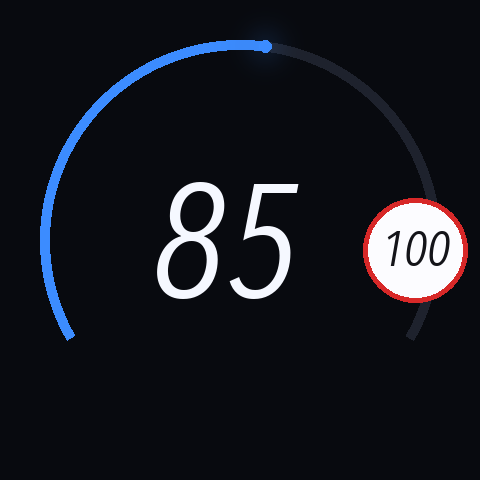
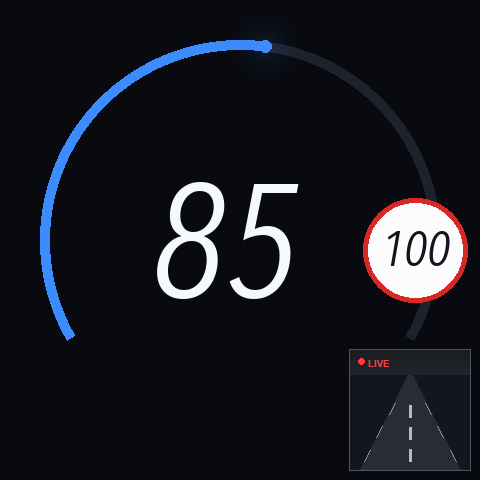
chore: update HUD mockups with PiP camera preview
Regenerate all 4 mockup images to include the PiP camera preview
in the bottom-right corner. Alert bar and separator shortened to
avoid overlapping the PiP area.

Changed region(s): [[0.7188, 0.75, 1.0, 1.0]]

diff --git a/src/generate_hud_mockups_v3.py b/src/generate_hud_mockups_v3.py
@@ -107,6 +107,84 @@ def draw_limit_sign(draw, cx, cy, r, text):
     center_text(draw, cx, cy - 2, text, fnt, (20, 20, 25))
 
 
+PIP_SIZE = 120
+PIP_MARGIN = 10
+PIP_X = W - PIP_MARGIN - PIP_SIZE   # 350
+PIP_Y = H - PIP_MARGIN - PIP_SIZE   # 350
+PIP_BORDER_COL = (80, 85, 100)
+
+
+def draw_pip_preview(img, draw):
+    """Draw a stylized camera preview placeholder in the PiP area.
+
+    Shows a simple road perspective with lane lines to clearly
+    communicate 'live camera feed' in the mockup.
+    """
+    px, py = PIP_X, PIP_Y
+    ps = PIP_SIZE
+
+    # Dark background (slightly lighter than HUD bg for contrast)
+    draw.rectangle([px, py, px + ps - 1, py + ps - 1], fill=(18, 22, 30))
+
+    # Simple road perspective: vanishing point at top-center of PiP
+    vx = px + ps // 2       # vanishing point x
+    vy = py + 25             # vanishing point y (near top)
+    bottom = py + ps - 1
+
+    # Road surface (dark gray trapezoid)
+    road_l = px + 10
+    road_r = px + ps - 10
+    draw.polygon([(vx - 2, vy), (vx + 2, vy),
+                  (road_r, bottom), (road_l, bottom)],
+                 fill=(40, 44, 52))
+
+    # Center dashed line
+    for i in range(4):
+        y1 = vy + 30 + i * 22
+        y2 = y1 + 12
+        if y2 > bottom:
+            break
+        # Line gets wider toward bottom (perspective)
+        frac = (y1 - vy) / (bottom - vy)
+        hw = max(1, int(frac * 2))
+        draw.rectangle([vx - hw, y1, vx + hw, y2], fill=(180, 185, 195))
+
+    # Left lane line
+    for i in range(3):
+        frac1 = 0.3 + i * 0.25
+        frac2 = frac1 + 0.12
+        y1 = int(vy + frac1 * (bottom - vy))
+        y2 = int(vy + frac2 * (bottom - vy))
+        x1 = int(vx - frac1 * (vx - road_l))
+        x2 = int(vx - frac2 * (vx - road_l))
+        draw.line([(x1, y1), (x2, y2)], fill=(140, 145, 155), width=1)
+
+    # Right lane line
+    for i in range(3):
+        frac1 = 0.3 + i * 0.25
+        frac2 = frac1 + 0.12
+        y1 = int(vy + frac1 * (bottom - vy))
+        y2 = int(vy + frac2 * (bottom - vy))
+        x1 = int(vx + frac1 * (road_r - vx))
+        x2 = int(vx + frac2 * (road_r - vx))
+        draw.line([(x1, y1), (x2, y2)], fill=(140, 145, 155), width=1)
+
+    # Sky gradient (top portion)
+    for y in range(py, vy):
+        frac = (y - py) / max(1, vy - py)
+        c = int(25 + frac * 10)
+        draw.line([(px, y), (px + ps - 1, y)], fill=(c, c + 3, c + 8))
+
+    # "LIVE" indicator dot (top-left of PiP)
+    dot_x, dot_y = px + 8, py + 8
+    draw.ellipse([dot_x, dot_y, dot_x + 6, dot_y + 6], fill=(255, 60, 60))
+    fnt_live = fr(10, bold=True)
+    draw.text((dot_x + 10, dot_y - 1), "LIVE", fill=(255, 60, 60), font=fnt_live)
+
+    # Border (1px subtle gray frame)
+    draw.rectangle([px - 1, py - 1, px + ps, py + ps], outline=PIP_BORDER_COL, width=1)
+
+
 def generate(filename, speed, limit, is_speeding=False, show_camera=False,
              camera_and_speeding=False):
     img = Image.new("RGB", (W, H), BG)
@@ -168,10 +246,12 @@ def generate(filename, speed, limit, is_speeding=False, show_camera=False,
         fnt_cam = fr(18, bold=True)
         draw.text((bx + 44, by + 10), "CAMERA", fill=cam_color, font=fnt_cam)
 
-    # -- Alert bar (bottom, only when needed) --
+    # -- Alert bar (bottom, shortened to avoid PiP overlap) --
     if is_speeding or show_camera:
         bar_h = 56
         bar_y = H - bar_h - 40
+        bar_x1 = 24
+        bar_x2 = PIP_X - 10  # stop before PiP area
 
         if camera_and_speeding:
             alert_color = RED
@@ -184,19 +264,23 @@ def generate(filename, speed, limit, is_speeding=False, show_camera=False,
             alert_text = "CAMERA AHEAD"
 
         # Glow
-        add_rect_glow(img, 20, bar_y, W - 20, bar_y + bar_h, alert_color, blur=25, strength=0.2)
+        add_rect_glow(img, bar_x1, bar_y, bar_x2, bar_y + bar_h, alert_color, blur=25, strength=0.2)
         draw = ImageDraw.Draw(img)
 
         # Bar background
         draw.rounded_rectangle(
-            [24, bar_y, W - 24, bar_y + bar_h], radius=14,
+            [bar_x1, bar_y, bar_x2, bar_y + bar_h], radius=14,
             fill=(alert_color[0] // 6, alert_color[1] // 6, alert_color[2] // 6),
             outline=alert_color, width=2,
         )
 
-        # Alert text - BIG enough to read
+        # Alert text centered in shortened bar
         fnt_alert = f(28, bold=True)
-        center_text(draw, W // 2, bar_y + bar_h // 2, alert_text, fnt_alert, alert_color)
+        bar_cx = (bar_x1 + bar_x2) // 2
+        center_text(draw, bar_cx, bar_y + bar_h // 2, alert_text, fnt_alert, alert_color)
+
+    # -- PiP camera preview (always drawn last, on top) --
+    draw_pip_preview(img, draw)
 
     img.save(filename, "PNG", quality=95)
     print(f"  -> {filename}")
